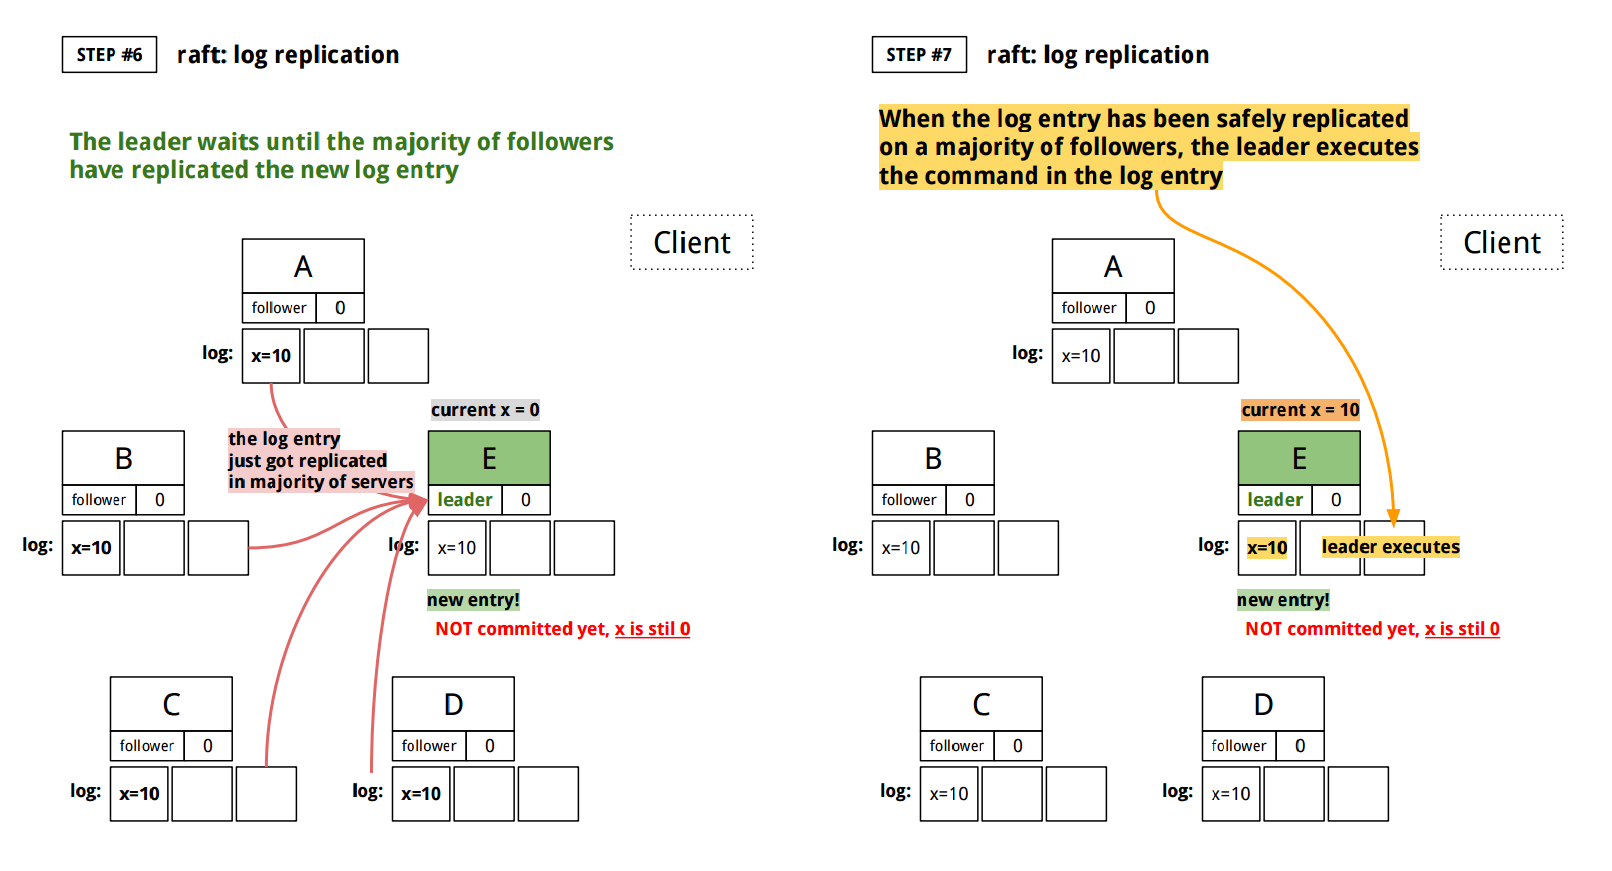
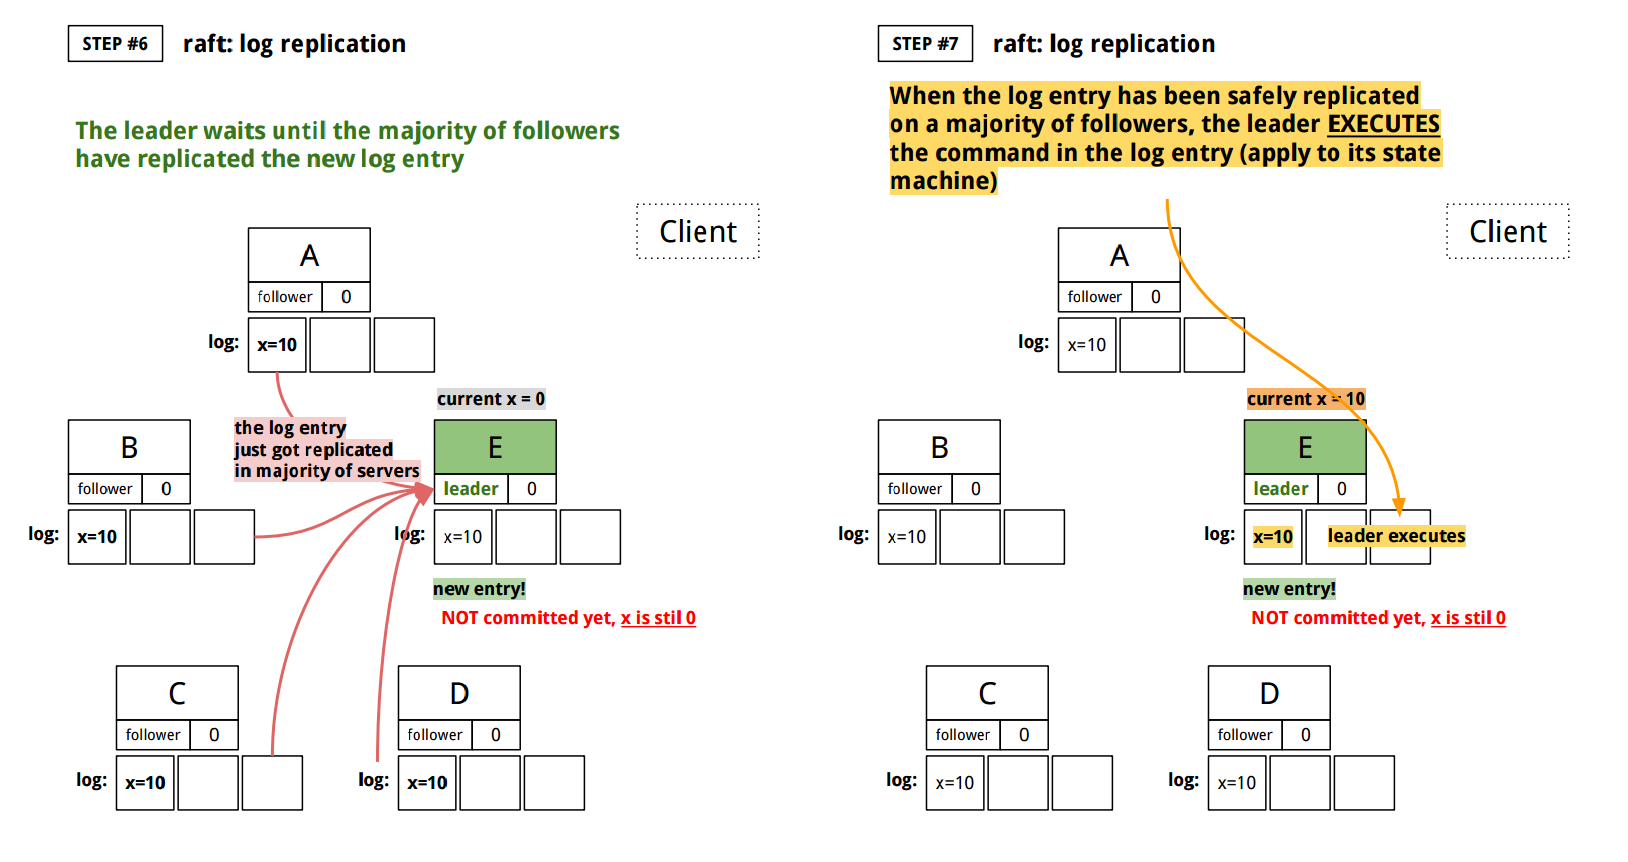
updates on raft, Thurs night

diff --git a/doc/etcd_raft_algorithm/README.md b/doc/etcd_raft_algorithm/README.md
@@ -21,6 +21,7 @@ Please refer to [Reference](#reference) below.
 - [raft algorithm: log replication](#raft-algorithm-log-replication)
 - [raft algorithm: log consistency](#raft-algorithm-log-consistency)
 - [raft algorithm: safety](#raft-algorithm-safety)
+- [raft algorithm: follower and candidate crashes](#raft-algorithm-follower-and-candidate-crashes)
 - [**raft algorithm: summary**](#raft-algorithm-summary)
 - [`etcd` internals: RPC between machines](#etcd-internals-rpc-between-machines)
   - [**`raft`**](#raft)
@@ -84,20 +85,18 @@ failure*](https://en.wikipedia.org/wiki/Byzantine_failure):
 
 *Byzantine failures* are far more disruptive because they affect
 *agreement*, *consensus* services in distributed computing systems.
-Ideally every process must agree on the same value. If a distributed system
-loses one of its communications, it can result in data inconsistency.
-A consensus algorithm must be resilient to these failures in order to
-guarantee the correctness.
+A consensus algorithm must be resilient to these failures and prevent
+data inconsistency even when it loses one of its communications.
 
 <br>
-An ultimate **consensus algorithm** would achieve:
+An ultimate **consensus algorithm** should achieve:
 - **_consistency_**.
 - **_availability_**.
 - **_partition tolerance_**.
 
 [CAP theorem](https://en.wikipedia.org/wiki/CAP_theorem) states that
 it is impossible that a distributed computer system simultaneously satisfies
-them all.
+them all. 
 
 [↑ top](#etcd-raft-algorithm)
 <br><br><br><br>
@@ -113,6 +112,18 @@ them all.
 
 #### raft algorithm: introduction
 
+To make your program reliable, you can:
+- execute the program in a collection of machines (distributed system).
+- ensure that they all get executed exactly the same way (consistency).
+
+This is the definition of **replicated state machine**.
+And a *state machine* can be any program or application with inputs and
+outputs. *Each replicated state machines* computes identical copy with a
+same state, which means when some servers are down, other state machines 
+can keep running. A distributed system usually implements *replicated state
+machines* by **replicating logs identically across cluster**. And the goal
+of *Raft* algorithm is to **keep those replicated logs consistent**.
+
 > **Raft is a consensus algorithm for managing a replicated
 > log.** It produces a result equivalent to (multi-)Paxos, and
 > it is as efficient as Paxos, but its structure is different
@@ -123,19 +134,6 @@ them all.
 > [*In Search of an Understandable Consensus
 > Algorithm*](http://ramcloud.stanford.edu/raft.pdf)
 > *by Diego Ongaro and John Ousterhout*
-
-One way to make your program reliable is:
-- execute the program in a collection of machines (distributed system).
-- ensure that they all get executed exactly the same way (consistency).
-
-This is the definition of **replicated state machine** in the paper.
-A *state machine* can be any program or application that takes inputs
-and returns outputs. **Replicated state machines** in a distributed system
-**compute identical copies** of the same state, so that even if some servers
-are down, other **state machines can keep running**. A **replicated state
-machine** is usually **implemented by replicating logs identically across
-the servers**. The goal of *Raft* algorithm is to **keep the replicated logs
-consistent**.
 
 [↑ top](#etcd-raft-algorithm)
 <br><br><br><br>
@@ -161,41 +159,45 @@ consistent**.
   replicating log entries identically on the collection of servers**.
 - **`log`**: A log contains a list of commands, so that *state machines*
   can apply those commands *when it is safe to do so*. A log entry is the
-  primary work unit of *Raft algorithm*.
+  primary work unit of *Raft algorithm*. A `command` completes when only a
+  majority of cluster has responded to a single round of remote procedure
+  calls, so that the minority of slow servers do not affect the overall
+  performance.
 - **`log commit`**: A leader `commits` a log entry only after the leader has
   replicated the entry on the majority of servers in a cluster. Such log entry
-  is safe to be applied to state machines. `Commit` also includes preceding
+  is safe to be applied to state machines. `commit` also includes preceding
   entries, such as the ones from previous leaders. This is done by the leader
   keeping track of the highest index to commit.
 - **`leader`**: *Raft algorithm* first elects a `leader` that handles
-  client requests and replicates log entries to other servers(followers).
+  client requests and replicates log entries to followers.
   Once logs are replicated, `leader` tells followers when to apply log
-  entries to their state machines. When a leader fails or gets disconnected,
-  *Raft* elects a new leader. In normal operation, there is **exactly only
-  one leader** for each term. A leader sends periodic heartbeat
-  messages to other servers to maintain its authority.
-- **`client`**: A client *requests* that **a leader append a new log entry**.
+  entries to their state machines. When a leader fails, *Raft* elects a
+  new leader. In normal operation, there is **exactly only one leader**
+  for each term. A leader sends periodic heartbeat messages to its followers
+  to maintain its authority.
+- **`client`**: A `client` requests a `leader` to append its new log entry.
   Then `leader` writes and replicates them to its followers. A client does
   **not need to know which machine is the leader**, sending write requests to
   any machine in the cluster. If a client sends a request to a follower, it
   redirects to the current leader (Raft paper §5.1). A leader sends out
   `AppendEntries` RPCs with its `leaderId` to other servers, so that a
   follower knows where to redirect client requests.
-- **`follower`**: A follower is completely passive, issuing no RPCs and only
+- **`follower`**: A `follower` is completely passive, issuing no RPCs and only
   responding to incoming RPCs from candidates or leaders. All servers start as
-  followers. If a follower receives no communication(heartbeat), it becomes a
-  candidate and then starts an election. 
-- **`candidate`**: A candidate is used to elect a new leader. It's a server
-  state between `follower` and `leader`. If a candidate receives votes from
-  the majority, it becomes the new `leader`.
+  followers. If a follower receives no communication or no heartbeat from a
+  valid `leader`, it becomes a `candidate` and then starts an election.
+- **`candidate`**: A server becomes a `candidate` from a `follower` when there
+  is no current `leader`, so electing a new `leader`: it's a state between
+  `follower` and `leader`. If a candidate receives votes from the majority
+  of cluster, it becomes the new `leader`.
 - **`term`**: *Raft* divides time into `terms` of arbitrary duration, indexed
   with consecutive integers. Each term begins with an *election*. And if the
-  election ends with no leader (split vote), it creates a new `term`. *Raft*
-  ensures that each `term` has at most one leader for the given `term`. `Term`
-  `index` is used to detect obsolete information. Servers always sync with
-  biggest `term` number(index), and any *server with stale `term`* number
-  **reverts back to `follower` state**, and requests from such servers
-  are rejected.
+  election ends with no leader *(split vote)*, it creates a new `term`. *Raft*
+  ensures that each `term` has at most one leader for the given `term`. `term
+  index` is used to detect obsolete data, only allowing the sync with servers
+  with biggest `term number` (`index`). Any server with stale `term` must stay
+  as or *revert back to* `follower` state. And requests from such servers are
+  rejected.
 
 [↑ top](#etcd-raft-algorithm)
 <br><br><br><br>
@@ -214,36 +216,44 @@ consistent**.
 *Raft* inter-server communication is done by remote procedure calls
 (RPCs). The basic Raft algorithm requires only two types of RPCs:
 
-- `RequestVote` RPCs, issued by candidates during elections.
-- `AppendEntries` RPCs, issued by leaders:
+- `RequestVote` RPCs, issued by `candidates` during elections.
+- `AppendEntries` RPCs, issued by `leaders`:
   - **to replicate log entries**.
   - **to send out heartbeat messages**.
 
+**Servers retry RPCs** *when they do not receive a response in time*,
+and **send RPCs in parallel** *for best performance*.
+
 <br>
-This is the summary of
+Summary of
 [§5.2 Leader election](http://ramcloud.stanford.edu/raft.pdf):
 
 1. A server begins as a `follower` with a new `term`.
 2. A `leader` sends periodic heartbeat messages to its followers in order to
    maintain its authority.
-3. `Followers` wait for **randomized** `election timeout` until they receive
-   heartbeats from a valid leader of equal or greater `term` number.
-4. If **`election times out`** and `followers` receive no such communication
-   from a leader, then it assumes there is no current leader in the cluster,
-   and it begins a new `election` and the **`follower` becomes the
-   `candidate`**, **incrementing its current `term` index(number)**,
-   and **resetting its `election timer`**.
-5. **`Candidate` first votes for itself** and **sends `RequestVote` RPCs**
-   to other servers(followers). `RequestVote` RPC includes `candidate`'s log
-   information so that a follower can deny its voting if the follower's log
-   is more up-to-date than `candidate`'s. *Raft* compares log's index and
-   `term` number to determine the up-to-date log.
-6. Then the **`candiate`** either:
+3. Each `follower` waits for heartbeats from a valid leader. The heartbeat
+   message from `leader` is **valid** only when the `leader`'s `term number`
+   is equal to or greater than `follower`'s `term number`.
+4. Each `follower` has its own **randomized** `election timeout`, in order to
+   avoid *split voite*. So in most cases, only a single `follower` server
+   times out. If the follower has not received such heartbeats within timeout,
+   it assumes that there is no current `leader` in cluster.
+5. Then the `follower` starts a new `election` becoming a `candidate`.
+6. When a `follower` becomes a `candidate`, it:
+	- increments its `term number`.
+	- resets its `election timeout`.
+7. `candidate` first votes for itself.
+8. `candidate` then **sends `RequestVote` RPCs** to other servers.
+9. `RequestVote` RPC includes the information of `candidate`'s log
+   (`index`, `term number`, etc).
+10. `follower` denies its voting if the `follower` has more complete
+   log than the `candidate`.
+11. Then **`candiate`** either:
 	- **_becomes the leader_** by *winning the election* when it gets **majority
 	  of votes**. Then it must send out heartbeats to others
 	  to establish itself as a leader.
 	- **_reverts back to a follower_** when it receives a RPC from a **valid
-	  leader**. A valid heartbeat message must have a `term` number that is
+	  leader**. A valid `leader` must have `term number` that is
 	  equal to or greater than `candidate`'s. RPCs with lower `term`
 	  numbers are rejected. A leader **only appends to log**. Therefore,
 	  future-leader will have the **most complete** log among electing
@@ -286,35 +296,40 @@ Here's how election works:
 *Raft* inter-server communication is done by remote procedure calls
 (RPCs). The basic Raft algorithm requires only two types of RPCs:
 
-- `RequestVote` RPCs, issued by candidates during elections.
-- `AppendEntries` RPCs, issued by leaders:
+- `RequestVote` RPCs, issued by `candidates` during elections.
+- `AppendEntries` RPCs, issued by `leaders`:
   - **to replicate log entries**.
   - **to send out heartbeat messages**.
 
-<br>
-This is the summary of
-[§5.3 Log replication](http://ramcloud.stanford.edu/raft.pdf).
+**Servers retry RPCs** *when they do not receive a response in time*,
+and **send RPCs in parallel** *for best performance*.
 
 <br>
-Once the cluster has elected a leader, it starts receiving `client` requests.
+Summary of
+[§5.3 Log replication](http://ramcloud.stanford.edu/raft.pdf):
 
-1. A `client` request contains a command for replicated state machines.
-2. The leader **appends** the command to its log as a **new entry**.
-3. The leader **replicates** the *log entry* to its `followers`,
-   with `AppendEntries` RPC. The leader keeps sending those RPCs until
+0. Once cluster has elected a leader, it starts receiving `client` requests.
+1. A `client` request contains `command` for replicated state machines.
+2. The leader **only appends** `command` to its log, never overwriting nor
+   deleting its log entries.
+3. The leader **replicates** the *log entry* to its `followers` with
+   `AppendEntries` RPCs. The leader keeps sending those RPCs until
    all followers eventually store all log entries. Each `AppendEntries` RPC
-   contains `term` number of the leader, its log entry index, its `leaderId`.
-4. When the log entry has been *safely replicated* on a majority of servers,
-   the leader applies the entry to its state machine. What its means by
+   contains leader's `term number`, its log entry index, its `leaderId`
+4. Again `command` can complete as soon as a majority of cluster has
+   responded to a single round of `AppendEntries` RPCs. The leader does
+   not need to wait for all servers' responses..
+5. When the *log entry* has been *safely replicated* on a majority of servers,
+   the **`leader`** applies the entry to its state machine. What its means by
    `apply the entry to state machine` is *execute the command in the log
    entry*.
-5. Once a log entry has been *safely replicated* and applied to the leader's
-   state machine, the leader `commits` the log.
-6. After the leader applies the log entry to its state machine (`committed`),
-   it returns the execution result to the client and tell `followers` that
-   the log entry is committed.
-
-Note that **a leader only appends**, never overwriting nor deleting entries.
+6. Then the `leader` returns the execution result to the client.
+7. The log entry that has been *safely replicated* and *applied to `leader`'s
+   state machine* is *called* **_committed_**.
+8. Future `AppendEntries` RPCs from the `leader` has the highest index of
+   `committed` log entry, so that `followers` could learn that a log entry is
+   `committed`, and they can apply the entry to their local state machines as
+   well.
 
 <br>
 Here's how log replication works:
@@ -324,6 +339,7 @@ Here's how log replication works:
 ![raft_log_replication_02](img/raft_log_replication_02.png)
 ![raft_log_replication_03](img/raft_log_replication_03.png)
 ![raft_log_replication_04](img/raft_log_replication_04.png)
+![raft_log_replication_05](img/raft_log_replication_05.png)
 
 [↑ top](#etcd-raft-algorithm)
 <br><br><br><br>
@@ -355,9 +371,10 @@ Here's how log replication works:
 
 #### raft algorithm: safety
 
-This is the summary of
-[§5.4 Safety](http://ramcloud.stanford.edu/raft.pdf).
+Summary of
+[§5.4 Safety](http://ramcloud.stanford.edu/raft.pdf):
 
+<br>
 *Raft* algorithm's **_safety_** is ensured when:
 
 1. each state machine executes exactly the same commands in the same order.
@@ -372,19 +389,42 @@ And to guarantee the safety requirement:
 - Entries must be committed before applying to a state machine.
 - Elect the candidate with most complete log.
 
-In order to commit entries from previous terms, a leader
-overwrites followers' log to handle the conflict entries.
-Leader first *finds the latest log entry* matching with leader's entry,
-and then *deletes follower's extraneous entries after that index*.
-This is done by `AppendEntries` RPC.
+When committing entries from previous terms, `leader` overwrites
+`followers` with logs to handle the conflict entries. `leader`
+first *finds the latest `follower` log entry* that matches with
+leader's entry. And *deletes any extraneous entries after that
+index*, in `follower`'s log. This is done by `AppendEntries` RPC.
 
 [↑ top](#etcd-raft-algorithm)
 <br><br><br><br>
-<hr> 
+<hr>
 
 
 
 
+
+
+
+#### raft algorithm: follower and candidate crashes
+
+Summary of
+[§5.5 Follower and candidate crashes](http://ramcloud.stanford.edu/raft.pdf):
+
+> If a *follower or candidate crashes*, then future `RequestVote` and
+> `AppendEntries` RPCs sent to it will fail. Raft handles these failures
+> by **retrying indefinitely**; if the *crashed server restarts*, then
+> the *RPC will complete successfully*. If a server crashes after
+> completing an RPC but before responding, then it will receive the same RPC
+> again after it restarts. **Raft RPCs are idempotent**, so this causes no
+> harm. For example, if a follower receives an `AppendEntries` request
+> that includes log entries already present in its log, it ignores those
+> entries in the new request.
+>
+> [*§5.5 Follower and candidate crashes*](http://ramcloud.stanford.edu/raft.pdf)
+
+[↑ top](#etcd-raft-algorithm)
+<br><br><br><br>
+<hr>
 
 
 
